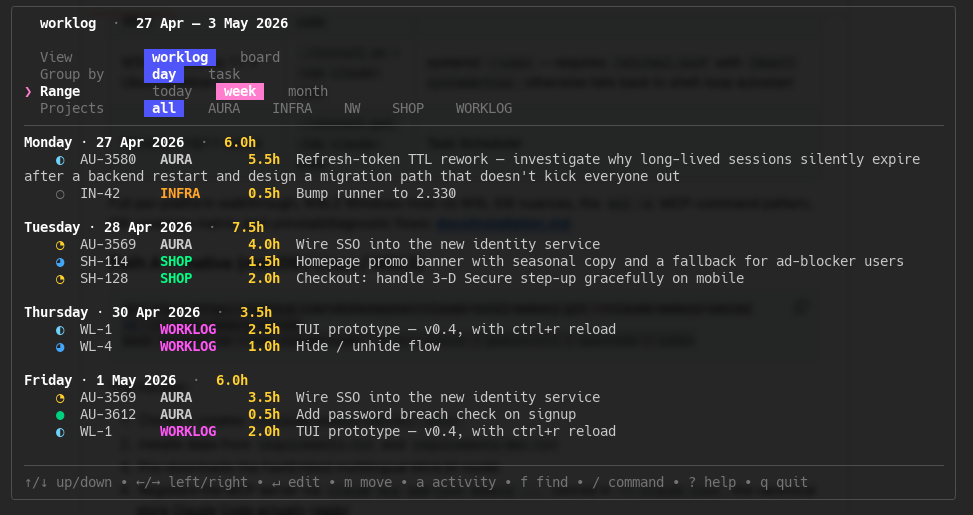
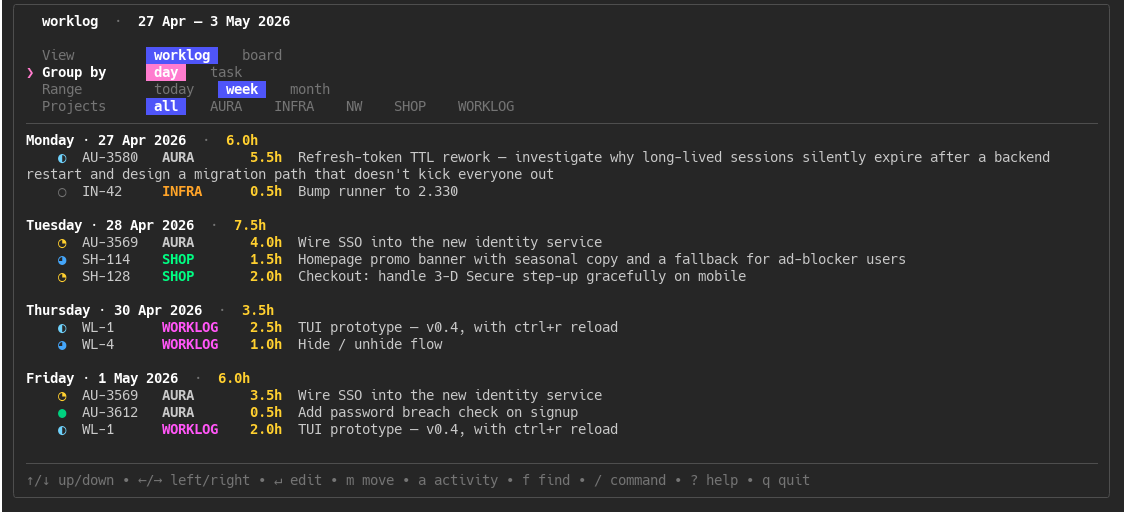
docs: refresh screenshots and expand the config section
Replace the three TUI screenshots (board, day-week, task-week) with
cleaner captures, and add a Config section to the README that walks
through every TOML table — UI, colors, keys, staleness, custom
workflow statuses, and per-project colors.

diff --git a/README.md b/README.md
@@ -117,9 +117,33 @@ Useful flags:
 - `--demo` — skip the DB entirely and render in-memory mocks (for screenshots).
 - `--db <path>` — point at a different SQLite file.
 
-Optional config: drop `examples/config.toml` into
+---
+
+## Config
+
+Optional. Drop [`examples/config.toml`](examples/config.toml) into
 `~/.config/worklog/config.toml` (or `$XDG_CONFIG_HOME/worklog/config.toml`)
-to tweak colors, keybindings, statuses, staleness thresholds.
+and tweak. Every field has a built-in default — leave out anything you
+don't care about.
+
+| Section                  | What it controls                                                                 |
+| ------------------------ | -------------------------------------------------------------------------------- |
+| `[ui]`                   | starting view (`worklog` / `board`), `day_target_hours`, border style            |
+| `[ui.colors]`            | palette (256-color ANSI codes) — accent, text, hours, chip backgrounds, …        |
+| `[keys]`                 | rebind single-key shortcuts (`reload`, `palette`, `move`, `activity`, `find`, …) |
+| `[stale]`                | board staleness thresholds — `warn_days` (orange), `alert_days` (red + ⚠)        |
+| `[stale_per_status.<k>]` | override staleness per status (e.g. `in_progress` should go red faster)          |
+| `[[status]]`             | full workflow — define your own statuses; `on_board = true` puts them on board   |
+| `[project_colors]`       | per-project tint, keyed by slug (e.g. `INFRA = "214"`)                           |
+
+A few notes:
+
+- **Statuses are all-or-nothing.** Declaring even one `[[status]]` block
+  fully replaces the default list. Order in the file = column order on
+  the board = cycle order of `←/→` in the editor.
+- **Key names** are bubbletea names — `"ctrl+r"`, `"alt+m"`, `"f1"` all work.
+- **Colors** are 256-color ANSI codes. [Reference chart](https://en.wikipedia.org/wiki/ANSI_escape_code#8-bit).
+- Changes apply on next launch — there's no live reload of the config file.
 
 ---
 